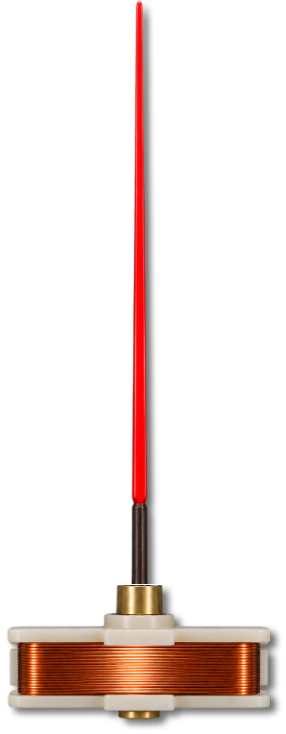
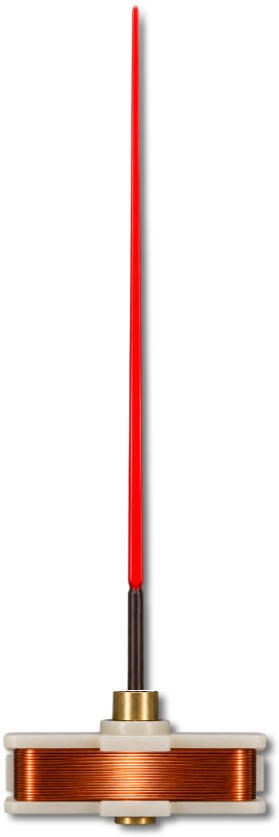
vu store: the Titanium meter, redrawn, and a needle that reaches both ends
New artwork from the designer (2850x1157): the scale and the magnets on one
layer, the needle with its collar and its coil on another, and a frame whose
hub cover now hides the movement. The whole moving part still turns on the
coil's axis, so the coil tilts in its housing and the needle always comes out
of it.

The ticks lean but do not radiate from one centre, so there is no arc to fit:
the pivot is the magnet disc, and the angles point the needle at the −20 and
the +3 mark. From there the needle as drawn falls 57 px short of them, so its
red rod is lengthened by that much, as before.

Changed region(s): [[0.0, 0.0, 1.0, 1.0]]

diff --git a/vu-store/README.md b/vu-store/README.md
@@ -26,7 +26,7 @@ Rules:
 
 ## Sources
 
-The designer's layered PNGs (2850x1503 canvas, 2850x998 for Titanium) are not
+The designer's layered PNGs (2850x1503 canvas, 2850x1157 for Titanium) are not
 in the repository. The needle is cut out of the "lancette" layer with
 `vu-skin-build.py needle LANCETTE --x X0,X1 --top T --to B`, then built with
 `--needle-pivot` = needle axis − X0, dial pivot Y − T (all source-artwork
@@ -38,7 +38,7 @@ pixels):
 | `golden` | VU Golden: under quadranti, over frame | 700,775 / 280..1180 | 34.1,949.77 | 736.58,1229.77 · 2103.58,1231.77 | -34.1,34.3 |
 | `aluminium` | VU Aluminium Style: under quadrante fix, over frame; v2 lancette | 750,830 / 230..1020 | 38.5,1041.91 | 796.59,1271.91 · 2024.46,1275.09 | -34.6,33.0 |
 | `glossy` | VU Glossy: under quadrante, over frame | 650,936 / 347..1170 | 143.0,761.5 | 793.0,1108.5 · 2014.0,1108.5 | -44.15,43.4 |
-| `titanium` | VU Titanium: under quadrante, over frame; red needle 87 px longer | 610,896 / 71..805 | 148.46,671.5 | 758.46,742.5 · 2100.46,742.5 | -54.11,54.11 |
+| `titanium` | VU Titanium 2: under scala e magneti, over frame; red rod 57 px longer | 614,893 / 92..925 | 137.5,762.5 | 751.5,850.5 · 2096.5,850.5 | -45.31,44.86 |
 
 The v2 Aluminium needle leans slightly in the artwork (tip at x 792, collar
 at 788.5): its axis is the collar's centre.
@@ -50,7 +50,7 @@ the dial's dark border as the outer ticks (±43°): the scale ends are ±34°.
 Glossy and Titanium draw the needle, its collar and its coil in one "lancette"
 layer, and the whole moving part turns together, like every other meter here:
 plain `needle` with no `--cut`, cut wide enough to take the coil in (286
-columns), and the frame is the only `--over`.
+columns for Glossy, 279 for Titanium), and the frame is the only `--over`.
 
 Both turn on the coil's own axis, so the coil turns on the spot in its housing
 and the needle always comes out of it. That is not what `measure` prints:
@@ -58,12 +58,22 @@ Glossy's scale arc has its centre 216 px lower, and turning the needle there
 walks it off the hub. Aimed from the coil instead, the ticks in between are
 off by at most 0.7 % of full scale.
 
-Titanium's scale is dead straight, so there is no arc to fit at all, and the
-needle as drawn is 87 px too short to reach −20 and +3 from the coil. It is
-lengthened by that much: only the red part is resampled, the stem, collar and
+Titanium's scale is drawn straight, with two rules and ticks that lean but do
+not radiate from one centre: fitting them gives no usable pivot (the lines miss
+each other by 135 px, and −10 leans further than −20). Its geometry comes from
+the artwork instead. The pivot is the coil, whose axis is also the centre of
+the magnet disc in the "scala e magneti" layer, a clean 228 px circle at
+749.5,850.5 and 2093.5,850.5. The angles point the needle at where the −20 and
+the +3 tick cross the middle of the scale bar (y 316).
+
+From there the needle as drawn is 57 px too short to reach those two marks. It
+is lengthened by that much: only the red rod is resampled, the stem, collar and
 coil keep their pixels and their rows. The needle is then long enough to run
-behind the top bezel between levels 33 and 67, which is the price of a hinge
-that stays where the artwork draws it.
+behind the top bezel between levels 25 and 75, which is the price of a hinge
+that stays where the artwork draws it. Putting the pivot further down — around
+y 1130 — makes the needle as drawn fit exactly and clips nothing, but then the
+brass collar slides out from under the hub cover at both ends, which is the
+fault this artwork was redrawn to cure.
 
 Check the sprite over the whole sweep: `VuPanel.qml` does not clip the needle
 to the panel, so a corner that leaves the canvas is drawn over the Now Playing
